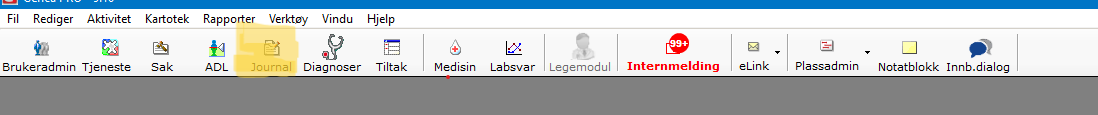
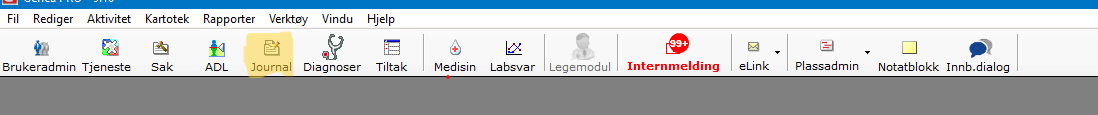
xxx

Changed region(s): [[0.1858, 0.1826, 0.2787, 0.6783]]

diff --git a/album.html b/album.html
@@ -258,9 +258,79 @@
            <a href="bilder/75.jpg" class="glightbox" data-gallery="album">
             <img src="bilder/75.jpg" alt="Bilde 75">
           </a>
-           <a href="bilder/76.jpg" class="glightbox" data-gallery="album">
-            <img src="bilder/76.jpg" alt="Bilde 76">
+           <a href="bilder/76.jpeg" class="glightbox" data-gallery="album">
+            <img src="bilder/76.jpeg" alt="Bilde 76">
           </a>
+           <a href="bilder/77.jpeg" class="glightbox" data-gallery="album">
+            <img src="bilder/77.jpeg" alt="Bilde 77">
+          </a>
+           <a href="bilder/78.jpeg" class="glightbox" data-gallery="album">
+            <img src="bilder/78.jpeg" alt="Bilde 78">
+          </a>
+           <a href="bilder/79.jpeg" class="glightbox" data-gallery="album">
+            <img src="bilder/79.jpeg" alt="Bilde 79">
+          </a>
+           <a href="bilder/80.jpeg" class="glightbox" data-gallery="album">
+            <img src="bilder/80.jpeg" alt="Bilde 80">
+          </a>
+           <a href="bilder/81.jpeg" class="glightbox" data-gallery="album">
+            <img src="bilder/81.jpeg" alt="Bilde 81">
+          </a>
+           <a href="bilder/82.jpeg" class="glightbox" data-gallery="album">
+            <img src="bilder/82.jpeg" alt="Bilde 82">
+          </a>
+           <a href="bilder/83.jpeg" class="glightbox" data-gallery="album">
+            <img src="bilder/83.jpeg" alt="Bilde 83">
+          </a>
+           <a href="bilder/84.jpeg" class="glightbox" data-gallery="album">
+            <img src="bilder/84.jpeg" alt="Bilde 84">
+          </a>
+          <a href="bilder/85.jpeg" class="glightbox" data-gallery="album">
+            <img src="bilder/85.jpeg" alt="Bilde 85">
+          </a>
+          <a href="bilder/86.jpeg" class="glightbox" data-gallery="album">
+            <img src="bilder/86.jpeg" alt="Bilde 86">
+          </a>
+          <a href="bilder/87.jpeg" class="glightbox" data-gallery="album">
+            <img src="bilder/87.jpeg" alt="Bilde 87">
+          </a>
+          <a href="bilder/88.jpeg" class="glightbox" data-gallery="album">
+            <img src="bilder/88.jpeg" alt="Bilde 88">
+          </a>
+          <a href="bilder/89.jpeg" class="glightbox" data-gallery="album">
+            <img src="bilder/89.jpeg" alt="Bilde 89">
+          </a>
+          <a href="bilder/90.jpeg" class="glightbox" data-gallery="album">
+            <img src="bilder/90.jpeg" alt="Bilde 90">
+          </a>
+          <a href="bilder/91.jpeg" class="glightbox" data-gallery="album">
+            <img src="bilder/91.jpeg" alt="Bilde 91">
+          </a>
+          <a href="bilder/92.jpeg" class="glightbox" data-gallery="album">
+            <img src="bilder/92.jpeg" alt="Bilde 92">
+          </a>
+          <a href="bilder/93.jpeg" class="glightbox" data-gallery="album">
+            <img src="bilder/93.jpeg" alt="Bilde 93">
+          </a>
+          <a href="bilder/94.jpeg" class="glightbox" data-gallery="album">
+            <img src="bilder/94.jpeg" alt="Bilde 94">
+          </a>
+          <a href="bilder/95.jpeg" class="glightbox" data-gallery="album">
+            <img src="bilder/95.jpeg" alt="Bilde 95">
+          </a>
+          <a href="bilder/96.jpeg" class="glightbox" data-gallery="album">
+            <img src="bilder/96.jpeg" alt="Bilde 96">
+          </a>
+          <a href="bilder/97.jpeg" class="glightbox" data-gallery="album">
+            <img src="bilder/97.jpeg" alt="Bilde 97">
+          </a>
+          <a href="bilder/98.jpeg" class="glightbox" data-gallery="album">
+            <img src="bilder/98.jpeg" alt="Bilde 98">
+          </a>
+          <a href="bilder/99.jpeg" class="glightbox" data-gallery="album">
+            <img src="bilder/99.jpeg" alt="Bilde 99">
+          </a>
+          
            
  </div>
 

diff --git a/Bursdager.html b/Bursdager.html
@@ -253,6 +253,11 @@
                             <h3>Sussie - 9. juni</h3>
                         </div>
 
+                         <div class="person">
+                            <img src="bilder/Glen.jpg">
+                            <h3>Glen - 15. juni</h3>
+                        </div>
+
                         <div class="person">
                             <img src="bilder/JohnJames.jpg">
                             <h3>John James - 20. juni</h3>

diff --git a/app.js b/app.js
@@ -255,6 +255,7 @@ window.addEventListener("load", () => {
  {navn: "Marte", dag: 20, måned: 5},
  {navn: "Chandranitti", dag: 7, måned: 6},
  {navn: "Sussie", dag: 9, måned: 6},
+ {navn: "Glen", dag: 15, måned: 6},
  {navn: "JohnJames", dag: 20, måned: 6},
  {navn: "Carolina", dag: 22, måned: 6},
  {navn: "Silje", dag: 24, måned: 6},
@@ -275,7 +276,7 @@ window.addEventListener("load", () => {
 const melding = document.getElementById("bursdagMelding");
 //new Date() lager et datoobjekt.Hvis datoen er 21. juli 2026, inneholder iDag: Tue Jul 21 2026
 const iDag = new Date();
-//Henter dagen. getDate() betyr Hvilken dag i måneden er det? Eksempel 21. juli gir dag = 21;
+//Henter dagen. getDate() betyr Hvilken dag i måneden er det? Eksempel 21. juli gir dag = 21; i dag er object, med attributer dag og måned
 const dag = iDag.getDate();
 //Henter måneden. Månedene i js begynner med 0. Derfor adderer vi med 1
 const måned = iDag.getMonth() + 1;
@@ -327,7 +328,7 @@ const knapp = document.getElementById("sendWhatsapp");
 knapp.addEventListener("click", () => {
 
     const melding =
-        "🎉 Gratulerer med dagen! Alle oss i Team Sør ønsker deg en fantastisk dag! 🎂🎈";
+        "🎉 Gratulerer med dagen!<strong>${navn[0]}</strong>! 🎂 Alle oss i Team Sør ønsker deg en fantastisk dag! 🎂🎈";
 
     window.open(
         `https://wa.me/?text=${encodeURIComponent(melding)}`,